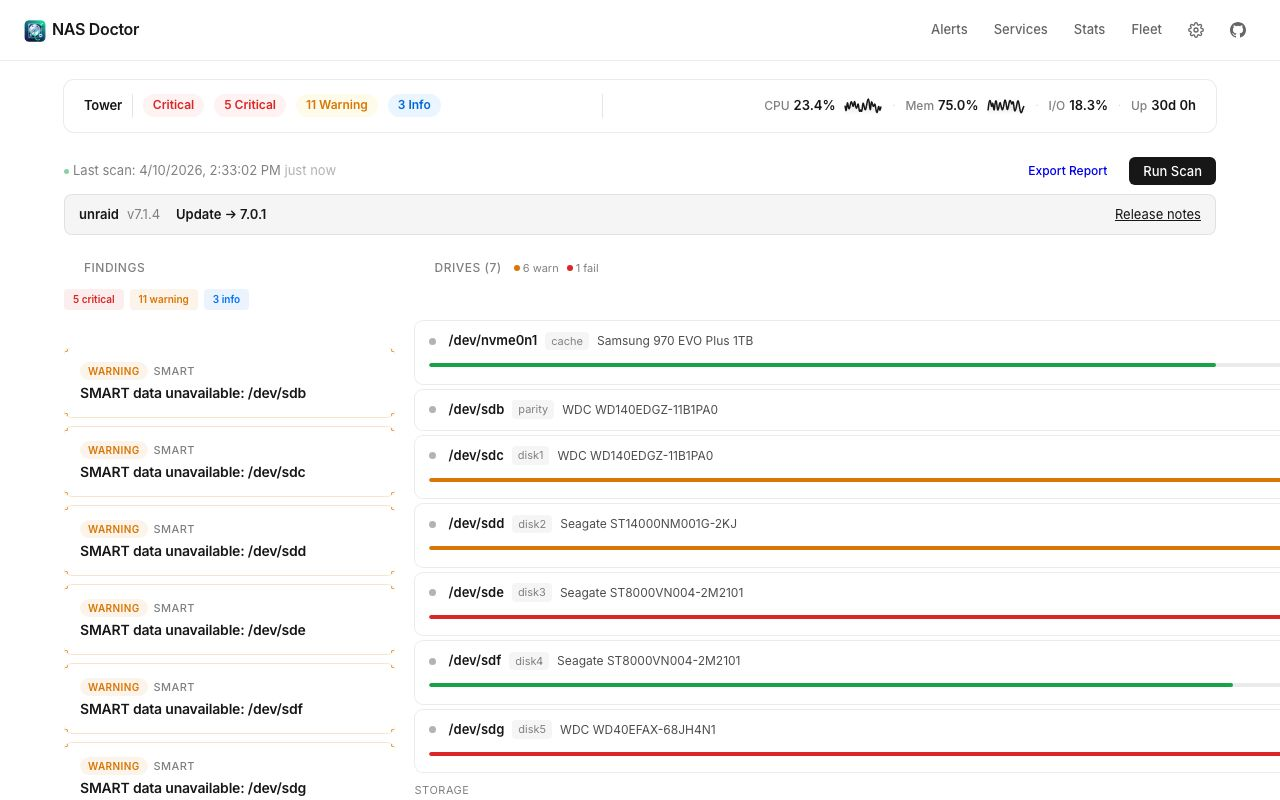
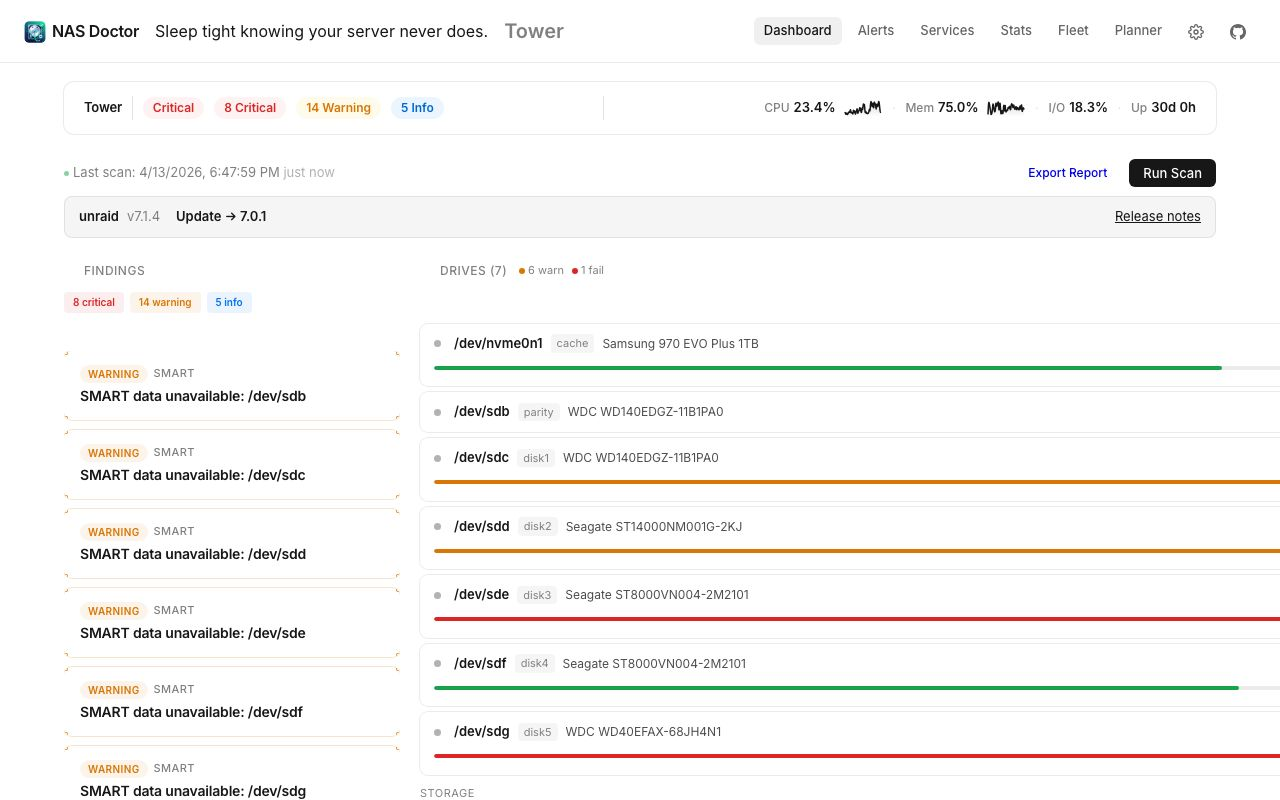
docs: update screenshots, AGENTS.md, remove Report section from README
- All 9 screenshots recaptured at 1280x800 from v0.8.0 demo showing
  new features: backup monitoring, speed test, container metrics, GPU
- Removed Export Reports section from README (feature removed from UI,
  will be reworked to include v0.8.0 features)
- Removed report-cover.jpg screenshot
- Replaced /api/v1/report with /api/v1/history/speedtest in API table
- AGENTS.md fully rewritten for v0.8.0: updated version, key files,
  service check types, speed check patterns, v0.8.0 feature list,
  remaining features, demo architecture

diff --git a/AGENTS.md b/AGENTS.md
@@ -7,7 +7,7 @@
 After every merge to `main` that includes code changes (not just docs):
 
 1. Determine the version bump:
-   - Patch (`v0.7.x`) for bug fixes
+   - Patch (`v0.8.x`) for bug fixes
    - Minor (`v0.x.0`) for new features
    - Major (`vX.0.0`) for breaking changes
 2. Tag: `git tag v<version> && git push origin v<version>`
@@ -22,7 +22,7 @@ The Docker CI workflow on `.github/workflows/docker.yml` publishes multi-arch (a
 
 ## Versioning
 
-- Current: v0.7.0
+- Current: v0.8.0
 - Main branch is protected — all changes go through PRs
 - Docker images: `ghcr.io/mcdays94/nas-doctor:{latest,version,major.minor}`
 - Multi-arch: linux/amd64, linux/arm64 (Raspberry Pi, Apple Silicon)
@@ -33,7 +33,7 @@ The Docker CI workflow on `.github/workflows/docker.yml` publishes multi-arch (a
 - Go backend, single binary, embedded HTML templates
 - Multi-stage Dockerfile with Go cross-compilation (no pre-compiled binaries)
 - 3 dashboard themes: midnight (default), clean, ember — each is a self-contained HTML file
-- Subpages: alerts, settings, stats, fleet, disk_detail, service_checks, parity
+- Subpages: alerts, settings, stats, fleet, disk_detail, service_checks, parity, replacement-planner
 - All subpages share `/css/shared.css` design system
 - SQLite database at `/data/nas-doctor.db`
 - Charts: custom vanilla JS library at `/js/charts.js` (no dependencies)
@@ -53,17 +53,17 @@ The Docker CI workflow on `.github/workflows/docker.yml` publishes multi-arch (a
 ## Key Files
 
 - `internal/collector/platform.go` — centralized platform detection singleton
-- `internal/collector/` — data collection (SMART, disk, docker, network, UPS, system, parity, tunnels, proxmox, kubernetes)
-- `internal/analyzer/` — diagnostic rules engine, Backblaze thresholds, Proxmox rules, K8s rules
+- `internal/collector/` — data collection (SMART, disk, docker, network, UPS, system, parity, tunnels, proxmox, kubernetes, gpu, backup, speedtest)
+- `internal/analyzer/` — diagnostic rules engine, Backblaze thresholds, Proxmox rules, K8s rules, backup staleness
 - `internal/api/` — HTTP handlers, embedded templates, API key middleware
 - `internal/api/styles.go` — shared CSS design system
-- `internal/api/templates/` — all HTML templates (10 pages)
-- `internal/scheduler/` — scan scheduling, notification rules, service checks (independent 30s loop)
+- `internal/api/templates/` — all HTML templates (11 pages)
+- `internal/scheduler/` — scan scheduling, notification rules, service checks (independent 30s loop), speed test (independent 4h loop)
 - `internal/notifier/` — webhook delivery (Discord, Slack, Gotify, Ntfy, generic) + Prometheus exporter (90+ metrics)
 - `internal/fleet/` — multi-server fleet polling with custom headers
 - `internal/logfwd/` — log forwarding (Loki, HTTP JSON, syslog)
 - `internal/storage/` — SQLite database layer
-- `internal/demo/` — mock data (drives, Docker, ZFS, UPS, tunnels, Proxmox, K8s)
+- `internal/demo/` — mock data (drives, Docker, ZFS, UPS, tunnels, Proxmox, K8s, GPU, backup, speedtest)
 
 ## Integrations
 
@@ -83,77 +83,46 @@ The Docker CI workflow on `.github/workflows/docker.yml` publishes multi-arch (a
 - **Auto-enable sections**: When an integration is enabled (Proxmox, K8s), auto-set the section toggle to true
 - **Settings load on startup**: Proxmox + K8s configs must be applied to collector at startup from persisted settings
 - **Orphaned checks**: Match by target URL too, not just name (fleet auto-created checks have different names)
+- **Service check types**: http, tcp, dns, ping, smb, nfs, speed — must be in BOTH `isSupportedServiceCheckType()` in scheduler AND the API handler validation switch in `handleUpdateSettings()`
+- **Speed checks**: Use `status: "degraded"` (not just up/down) — CSS `.status-dot.degraded` and `.pill-speed` must exist
 
 ## App Store Submissions
 
 - **Unraid CA**: Asana form submitted, docker-templates repo at mcdays94/docker-templates
-- **TrueNAS**: PR #4804 at truenas/apps
+- **TrueNAS**: PR #4804 at truenas/apps — open, 0 reviews (as of Apr 2026)
 - **Synology**: No app catalog (Docker Compose in README)
 
-## Current Work-in-Progress
+## v0.8.0 Features (released)
 
-**Branch**: `dev/new-features` (at `55c8ed8`, based on `dev/predictive-intelligence`)
+1. **GPU Monitoring** — Nvidia/AMD/Intel with usage/temp/VRAM/power charts
+2. **Per-Container Resource Metrics** — CPU/mem/net/block I/O per container with merged view
+3. **Backup Monitoring** — Borg, Restic, PBS, Duplicati detection + stale/failed alerts
+4. **Network Speed Test** — Periodic speedtest with download/upload/latency charts (4h schedule)
+5. **Speed Service Check** — New check type: contracted speed vs actual with margin %, three-state (up/degraded/down)
+6. **Chart Range Persistence** — 1H/1D/1W synced across all chart sections, saved to config
+7. **Scroll Fade Edges** — Gradient overlays on horizontal scroll containers
+8. **Section Resize** — Drag handle, heights persist to config, bottom fade on overflow
+9. **Notification Rule UX** — Live preview, contextual hints, context-aware conditions per check type
+10. **Test Notifications** — Context-specific test on both webhooks and notification rules
 
-### Completed
-1. **GPU Monitoring** — full stack implementation:
-   - Collector: Nvidia (`nvidia-smi`), AMD (`rocm-smi` + sysfs), Intel (i915/xe sysfs)
-   - Model: `GPUInfo`/`GPUDevice` structs, `CategoryGPU`, `Snapshot.GPU` field
-   - Analyzer: temperature (>85/95°C), VRAM exhaustion (>95%), power limit rules
-   - Storage: `gpu_history` table with per-GPU time-series metrics
-   - API: `GET /api/v1/history/gpu?hours=N` endpoint (1/24/168)
-   - Dashboard: GPU section in all 3 themes with area charts and 1H/1D/1W toggle buttons
-   - Prometheus: 10 GPU gauges (usage, temp, VRAM, power, fan, encoder, decoder)
-   - Settings: GPU section toggle in dashboard sections
-   - Demo: RTX 4060 + Intel UHD 730 mock data with 48h hourly history
+## Remaining Features (planned)
 
-2. **Per-Container Resource Metrics** — full stack implementation:
-   - Collector: extend `docker stats` with NetIO/BlockIO parsing (`parseDockerBytes()`)
-   - Model: `NetIn`/`NetOut`/`BlockRead`/`BlockWrite` on `ContainerInfo`
-   - Storage: `container_stats_history` table with save/get/prune
-   - API: `GET /api/v1/history/containers?hours=N` endpoint
-   - Analyzer: enhanced Docker rules (CPU >200% critical, memory >95% critical)
-   - Prometheus: 5 new per-container gauges (mem_pct, net_in/out, block_read/write)
-   - Dashboard: container metric cards with CPU/Mem/Net/Disk + area charts
-   - Merged container view (default ON) — combines Docker list + metrics in one section
-   - Settings: `merged_containers` toggle, `container_metrics` standalone toggle (default OFF)
-   - Demo: realistic net/block I/O mock data with hourly jitter
+- **Export Reports** — Rework the diagnostic report to include all v0.8.0 features (GPU, backup, speed test, container metrics). Currently removed from UI.
+- **ZFS Scrub Scheduling** — trigger/schedule scrubs from settings UI
+- **Power Consumption Tracking** — IPMI/smart plugs, watts + monthly cost estimate
 
-3. **Chart Range Persistence** — 1H/1D/1W saved to server config:
-   - `PUT /api/v1/settings/chart-range` endpoint
-   - All chart sections (GPU + containers) sync to same range
-   - `chart_range_hours` in `statusResponse` so dashboards read on load
+## Implementation Pattern (same for each feature)
 
-4. **Scroll Fade Edges** — gradient overlays on horizontal scroll:
-   - `NasScrollFade` JS utility auto-detects overflow-x:auto containers
-   - Background color auto-detected from parent for seamless gradients
-   - Shows/hides based on scroll position with `ResizeObserver`
-
-5. **Section Resize** — custom drag handle at bottom center:
-   - Drag to shrink/grow, bottom gradient fade when content overflows
-   - Double-click handle to reset
-   - Heights persisted via `PUT /api/v1/settings/section-heights`
-   - `section_heights` map in settings + `statusResponse`
-
-### Remaining Features (in order)
-6. **Backup Monitoring** — detect PBS, Borg, Restic, Duplicati; track last successful backup
-7. **Network Speed Test History** — periodic speedtest with graphs
-8. **ZFS Scrub Scheduling** — trigger/schedule scrubs from settings UI
-9. **Power Consumption Tracking** — IPMI/smart plugs, watts + monthly cost estimate
-
-### Implementation Pattern (same for each feature)
 Model (`models.go`) → Collector (`collector/<feature>.go`) → Wire (`collector.go`) → Analyzer rules → Demo data (`demo.go` + `main.go` history loop) → Prometheus gauges → Dashboard sections (3 themes + sectionMap) → Settings toggle (`api_extended.go` + `settings.html` secIds/payload) → Storage history table (if charts needed)
 
 ## Live Demo
 
-- **URL**: https://nas-doctor-demo.mdias-info.workers.dev (custom domain: nasdoctordemo.mdias.info pending CNAME)
-- **Architecture**: Cloudflare Worker with static HTML (captured at build time) + dynamic API data generation
-- **Source**: `demo-worker/` directory
+- **URL**: https://nasdoctordemo.mdias.info
+- **Architecture**: Cloudflare Worker (KV-backed) + feeder cron Worker. See `demo-worker/README.md`.
+- **Source**: `demo-worker/` (demo Worker) + `demo-worker/feeder/` (data generator)
 - **Deploy**: `cd demo-worker && npx wrangler deploy` (or via GH Action on release)
-- **GH Action**: `.github/workflows/demo-deploy.yml` — builds Go binary, runs demo, captures pages, deploys worker
-- **Platform Switcher**: `?platform=unraid|synology|proxmox|kubernetes` (cookie persisted)
+- **GH Action**: `.github/workflows/demo-deploy.yml` — builds Go binary, runs demo, captures pages, seeds KV, deploys both Workers
+- **Platform Switcher**: `?platform=unraid|synology|truenas|proxmox|kubernetes` (cookie persisted)
 - **Security**: All POST/PUT/DELETE blocked with 403; chart-range/section-heights return graceful no-ops; settings page has disabled inputs
-- **Data**: Time-varying via deterministic noise seeded by `Date.now()`; different data per platform profile
+- **Data**: Feeder cron (every 5 min) reads seed data from KV, applies time-based jitter + platform transformation, writes back. All data originated from real Go binary.
 - **Auto-update**: GH Action triggers on release publish + push to main when demo-worker/ or templates change
-
-### Also on this branch (pre-existing)
-- Nav bar standardization fix (commit `4a0b832` on `dev/predictive-intelligence`, carried forward)

diff --git a/README.md b/README.md
@@ -63,14 +63,6 @@ Born from an [OpenCode diagnostic skill](https://github.com/mcdays94/opencode-se
 - OS significantly out of date → **Security vulnerability risk**
 - And more...
 
-### Export Reports
-
-Click **Export Report** on the dashboard to generate a professional, print-ready diagnostic report. Open in your browser and Print -> Save as PDF.
-
-<p>
-  <img src="screenshots/report-cover.jpg" alt="Report Cover Page" width="420">
-</p>
-
 ### Alerts & Incident Management
 
 Dedicated `/alerts` page with:
@@ -450,7 +442,7 @@ All configurable from the web UI at `/settings`, organized with a sticky section
 | `/api/v1/snapshot/{id}` | GET | Specific snapshot by ID |
 | `/api/v1/snapshots` | GET | List recent snapshots |
 | `/api/v1/scan` | POST | Trigger immediate diagnostic scan |
-| `/api/v1/report` | GET | Generate print-ready HTML diagnostic report |
+| `/api/v1/history/speedtest` | GET | Speed test history (query: `?hours=N`) |
 | `/api/v1/settings` | GET/PUT | Read/write application settings |
 | `/api/v1/settings/test-webhook` | POST | Send test notification to a webhook |
 | `/api/v1/sparklines` | GET | Condensed system + SMART history for charts |
